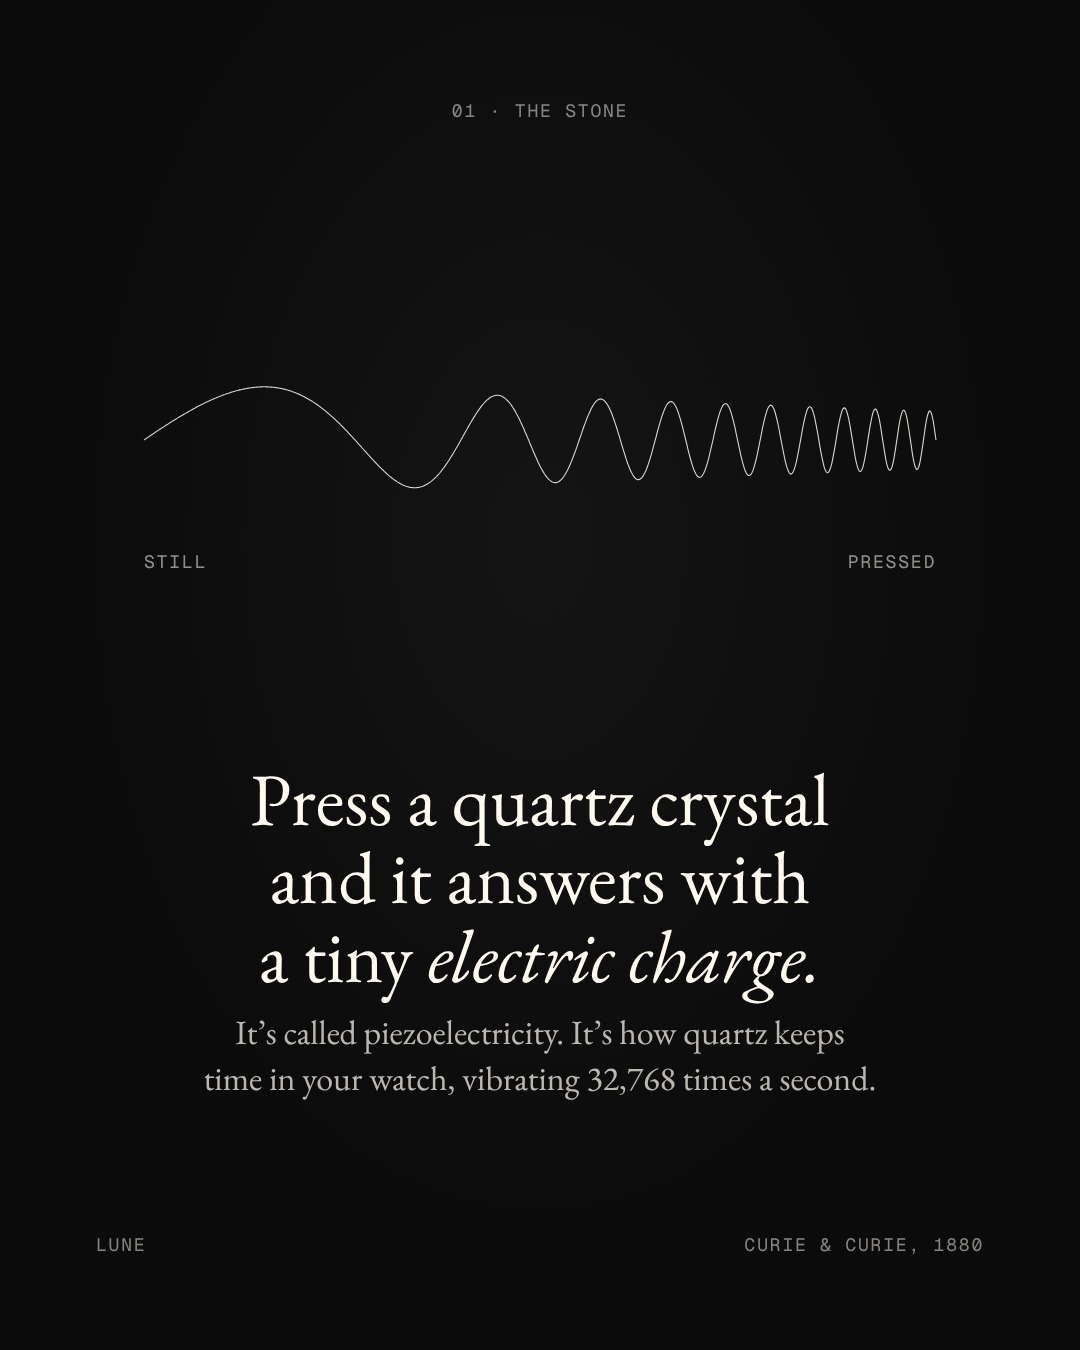
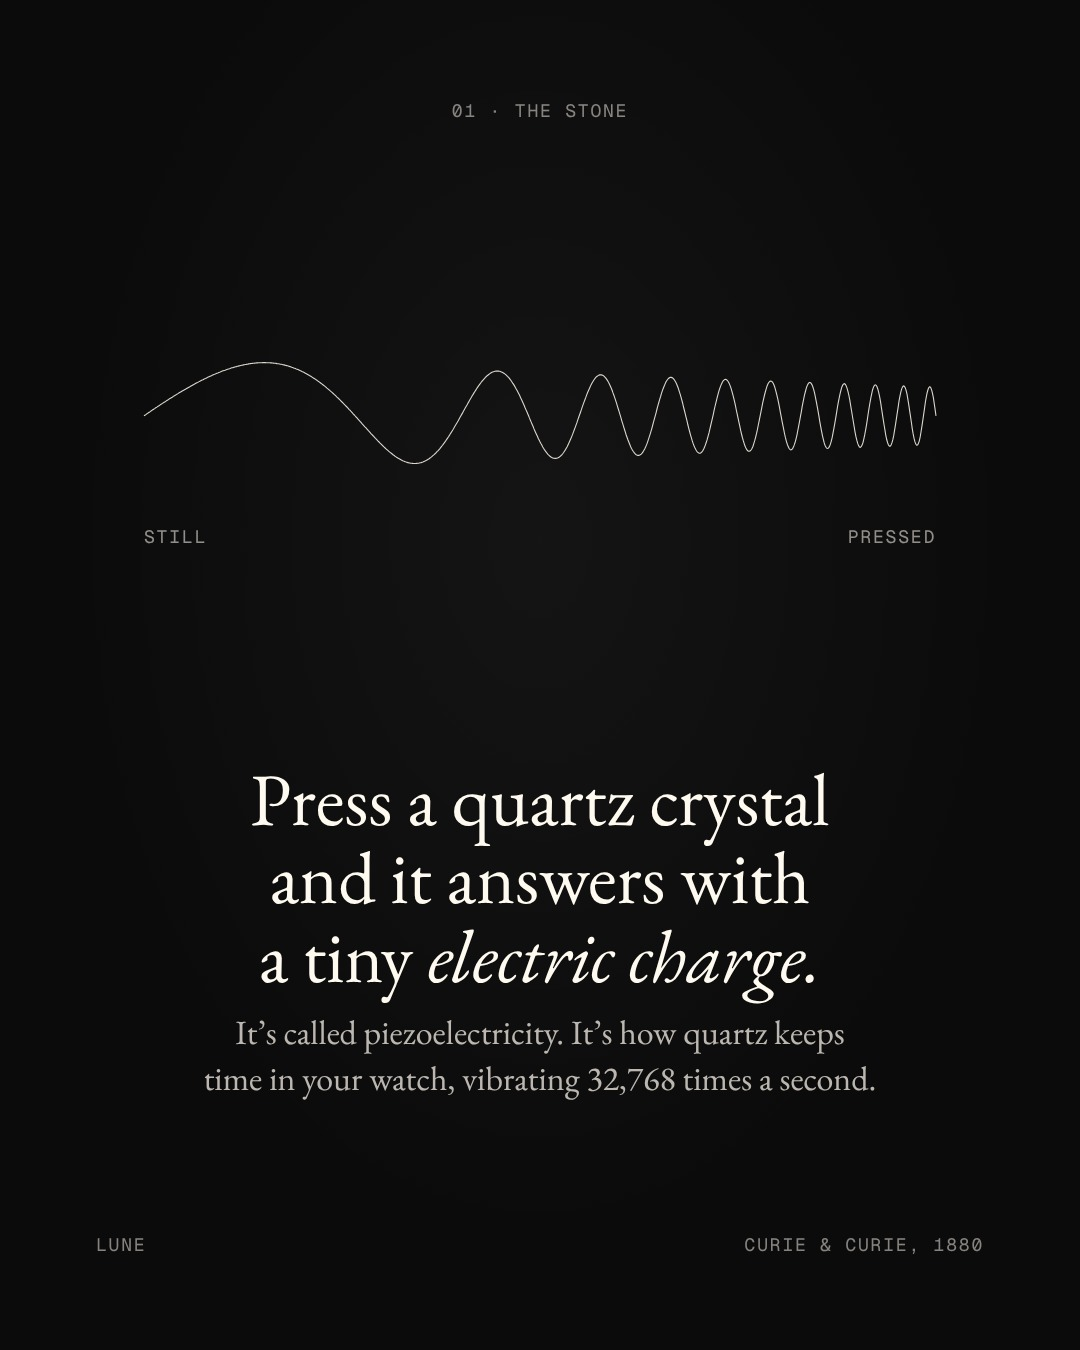
Crystals carousel: distinct end page, optically centred blocks in every cell
Claude-Session: https://claude.ai/code/session_01RcPwiV74pTBPtN1QyzzEVg

diff --git a/2026-11/w45/energia/carrossel.html b/2026-11/w45/energia/carrossel.html
@@ -43,50 +43,61 @@ const S=[
  {label:'03 · Together', title:'Press the stone as you name your intention. It becomes a <i>cue</i> your mind returns to.', sub:'In 94 studies, people who tied a clear intention to a cue were far more likely to follow through.', form:'together', marks:['stone','intention'], end:'Gollwitzer & Sheeran, 2006'},
  {label:'04 · Five for the waning moon', title:'What each one is <i>for.</i>', sub:'Each stone holds a different intention. Notice which name stays with you.', grid:[['grounding','Smoky quartz','for grounding'],['ties','Obsidian','for old ties'],['calm','Amethyst','for a calm mind'],['clean','Selenite','for a clean slate'],['bounds','Black tourmaline','for boundaries']], end:'Share with a friend'},
  {label:'05 · How to hold it', title:'Hold it. Name what you release. <i>Breathe out.</i>', sub:'Then let it rest on your altar until the new moon on 9 November.', form:'steps', marks3:['hold','name','breathe out'], end:'Share with a friend'},
- {label:'06 · Choose one', title:'Which one is <i>calling you?</i>', sub:'Trust the first stone your eye went to. Save this for your altar.', form:'orbit', end:'More moon rituals · lunerituals.app'},
+ {final:1, title:'Which one is <i>calling you?</i>', sub:'Trust the first stone your eye went to. Save this for your altar.'},
 ];
-const P=S[PG-1]; let svg='', html='';
-const div=(st,cls,txt)=>html+=`<div class="a ${cls}" style="${st}">${txt}</div>`;
-function marks(x0,x1,y){ if(P.form==='together'){return} if(P.marks){svg+=T(x0,y,P.marks[0].toUpperCase(),{a:'start',s:18})+T(x1,y,P.marks[1].toUpperCase(),{a:'end',s:18})} }
-function grid(cx,cy,w,h){ // 3 + 2 layout, labels below each form with clear gap
- const g=P.grid, r=Math.min(w/3,h/2)*0.27, rows=[[0,1,2],[3,4]];
- rows.forEach((row,ri)=>{const y=cy-h/4+ri*h/2-20; row.forEach((k,ci)=>{const n=row.length;const x=cx+(ci-(n-1)/2)*(w/3);
-   svg+=F[g[k][0]](x,y,r); svg+=T(x,y+r+62,g[k][1],{f:'EB',s:40,op:1})+T(x,y+r+100,g[k][2],{f:'EB',s:28,i:1,op:.62});})});
+const P=S[PG-1]; let svg='', html='', art_='', CEN=null;
+const div=(st,cls,txt,id='')=>html+=`<div ${id?`id="${id}"`:''} class="a ${cls}" style="${st}">${txt}</div>`;
+function marks(x0,x1,y){ if(P.form==='together'){return} if(P.marks){art_+=T(x0,y,P.marks[0].toUpperCase(),{a:'start',s:18})+T(x1,y,P.marks[1].toUpperCase(),{a:'end',s:18})} }
+function grid(cx,cy,w,h,rr){ // 3 + 2 layout; whole block is centred later by measuring it
+ const g=P.grid, r=rr||Math.min(w/3,h/2)*0.27, rows=[[0,1,2],[3,4]];
+ rows.forEach((row,ri)=>{const y=cy+ri*(2*r+172); row.forEach((k,ci)=>{const n=row.length;const x=cx+(ci-(n-1)/2)*(w/3);
+   art_+=F[g[k][0]](x,y,r); art_+=T(x,y+r+60,g[k][1],{f:'EB',s:38,op:1})+T(x,y+r+100,g[k][2],{f:'EB',s:28,i:1,op:.62});})});
 }
-function steps(cx,y,r){ svg+=F.steps(cx,y,r); P.marks3.forEach((m,i)=>svg+=T(cx+(i-1)*r*2,y+r*0.9*0.5+52,`0${i+1} · ${m.toUpperCase()}`,{s:18}))}
-function art(x,y,r,box){ if(P.grid) return grid(box.cx,box.cy,box.w,box.h); if(P.form==='steps') return steps(x,y,r);
-  svg+=F[P.form](x,y,r); if(P.form==='wave') marks(x-r*2.2,x+r*2.2,y+r*0.32+70); if(P.form==='together') svg+=T(x-r*0.55,y+r*0.88+56,'STONE',{s:18})+T(x+r*0.55,y+r*0.88+56,'INTENTION',{s:18}); }
+function steps(cx,y,r){ art_+=F.steps(cx,y,r); P.marks3.forEach((m,i)=>art_+=T(cx+(i-1)*r*2,y+r*0.9*0.5+52,`0${i+1} · ${m.toUpperCase()}`,{s:18}))}
+function art(x,y,r,box){ if(P.grid) return grid(box.cx,box.cy,box.w,box.h,box.r); if(P.form==='steps') return steps(x,y,r);
+  art_+=F[P.form](x,y,r); if(P.form==='wave') marks(x-r*2.2,x+r*2.2,y+r*0.32+70); if(P.form==='together') art_+=T(x-r*0.55,y+r*0.88+56,'STONE',{s:18})+T(x+r*0.55,y+r*0.88+56,'INTENTION',{s:18}); }
+// ---------- final page: a different room, so it reads as the end ----------
+if(P.final){ document.getElementById('p').style.background='#3D374E';
+ div(`top:0;bottom:0;left:120px;right:120px;display:flex;flex-direction:column;justify-content:center;align-items:center;text-align:center;gap:40px`,'',
+  `<div class="eb" style="font-size:104px;line-height:1.04">${P.title}</div><div class="eb" style="font-size:40px;line-height:1.35;opacity:.8">${P.sub}</div>`);
+ div(`bottom:96px;left:0;right:0;text-align:center`,'gm','<span style="font-size:22px;letter-spacing:.4em">LUNE</span><br><span style="opacity:.6">lunerituals.app</span>');
+}
 // ---------- three layout logics ----------
-if(DIR==='A'){ // EMBLEM: everything centred; form above, words below
+if(DIR==='A'&&!P.final){ // EMBLEM: everything centred; form above, words below
  div(`top:${M}px;left:0;right:0;text-align:center`,'gm d',P.label);
  const big=P.cover?112:74, ty=P.cover?800:(P.grid?190:760);
- if(P.grid){div(`top:${ty}px;left:0;right:0;text-align:center;font-size:${big}px;line-height:1.05`,'eb',P.title); art(0,0,0,{cx:540,cy:760,w:900,h:760});}
- else { art(540,P.cover?480:440,P.form==='wave'?180:(P.form==='steps'?120:150));
+ if(P.grid){div(`top:${ty}px;left:0;right:0;text-align:center;font-size:${big}px;line-height:1.05`,'eb',P.title); art(0,0,0,{cx:540,cy:760,w:900,h:760}); CEN=[540,(300+1200)/2];}
+ else { CEN=[540,(150+ty)/2]; art(540,P.cover?480:440,P.form==='wave'?180:(P.form==='steps'?120:150));
   div(`top:${ty}px;left:120px;right:120px;text-align:center;font-size:${big}px;line-height:1.06`,'eb',P.title);
   if(P.sub) div(`top:${P.cover?1052:ty+ (P.title.length>60?250:180)}px;left:150px;right:150px;text-align:center;font-size:${P.cover?40:34}px;line-height:1.35;opacity:.72`,'eb',P.cover?'<i>'+P.sub+'</i>':P.sub);}
  div(`top:1230px;left:${M}px`,'gm d','Lune'); div(`top:1230px;right:${M}px`,'gm d',P.cover?P.note+' →':P.end);
 }
-if(DIR==='B'){ // GRID: thin frame; title cell + note cell; art lives in the big cell
+if(DIR==='B'&&!P.final){ // GRID: thin frame; title cell + note cell; art lives in the big cell
  const x0=M,x1=W-M,y0=120,y1=1180,ym=P.cover?470:500,xm=W/2+16;
  svg+=`<rect x="${x0}" y="${y0}" width="${x1-x0}" height="${y1-y0}" fill="none" stroke="${L}" stroke-width="1" opacity=".26"/><line x1="${x0}" y1="${ym}" x2="${x1}" y2="${ym}" stroke="${L}" stroke-width="1" opacity=".26"/><line x1="${xm}" y1="${y0}" x2="${xm}" y2="${ym}" stroke="${L}" stroke-width="1" opacity=".26"/>`;
- div(`top:${y0+40}px;left:${x0+40}px`,'gm d',P.label);
+ div(`top:${y0+40}px;left:${x0+40}px`,'gm d',P.label,'bl');
  const big=P.cover?86:(P.title.length>60?48:56);
- div(`top:${y0+92}px;left:${x0+40}px;width:${xm-x0-80}px;font-size:${big}px;line-height:1.08`,'eb',P.title);
+ div(`top:${y0+92}px;left:${x0+40}px;width:${xm-x0-80}px;font-size:${big}px;line-height:1.08`,'eb',P.title,'bt'); window.CELL={y0,ym};
  const right=P.cover?'Even a stone. 5 crystals to hold while you let go this waning moon.':(P.sub||'');
- div(`top:${y0+44}px;left:${xm+40}px;width:${x1-xm-80}px;font-size:${P.sub&&!P.cover?30:30}px;line-height:1.35;opacity:.8`,'eb',right);
- if(P.grid) art(0,0,0,{cx:540,cy:(ym+y1)/2-14,w:860,h:600}); else art(540,(ym+y1)/2-(P.form==='wave'?20:0),P.form==='wave'?175:(P.form==='steps'?120:150));
+ div(`top:${y0+44}px;left:${xm+40}px;width:${x1-xm-80}px;font-size:${P.sub&&!P.cover?30:30}px;line-height:1.35;opacity:.8`,'eb',right,'bn');
+ CEN=[540,(ym+y1)/2]; if(P.grid) art(0,0,0,{cx:540,cy:(ym+y1)/2-6,w:840,h:600,r:63}); else art(540,(ym+y1)/2,P.form==='wave'?175:(P.form==='steps'?120:150));
  div(`top:1220px;left:${M}px`,'gm d','Lune'); div(`top:1220px;right:${M}px`,'gm d',P.cover?'Swipe →':P.end);
 }
-if(DIR==='C'){ // EDITORIAL: big left title on top, small art low right, quiet notes low left
+if(DIR==='C'&&!P.final){ // EDITORIAL: big left title on top, small art low right, quiet notes low left
  div(`top:${M}px;left:${M}px`,'gm d',P.label);
  const big=P.cover?124:(P.title.length>60?70:84);
  div(`top:${M+64}px;left:${M}px;width:${P.cover?880:860}px;font-size:${big}px;line-height:1.04`,'eb',P.title);
  if(P.sub) div(`top:${P.cover?450:(P.title.length>60?470:390)}px;left:${M}px;width:${P.cover?600:640}px;font-size:${P.cover?40:34}px;line-height:1.35;opacity:.72`,'eb',P.sub);
- if(P.grid) art(0,0,0,{cx:540,cy:880,w:900,h:620});
+ if(P.grid){ art(0,0,0,{cx:540,cy:880,w:900,h:620}); CEN=[540,(500+1200)/2];}
  else if(P.form==='wave') art(540,880,175); else if(P.form==='steps') art(540,900,120); else art(760,900,P.cover?170:150);
  if(P.cover) div(`top:1186px;left:${M}px`,'gm d','5 crystals<br>for letting go');
  else div(`top:1230px;left:${M}px`,'gm d',P.end);
  div(`top:1230px;right:${M}px`,'gm d',P.cover?'Swipe →':'Lune');
 }
-document.getElementById('s').innerHTML=svg; document.getElementById('p').insertAdjacentHTML('beforeend',html);
+document.getElementById('s').innerHTML=svg+`<g id="art">${art_}</g>`;
+if(CEN){const g=document.getElementById('art');const b=g.getBBox();if(b.width){g.setAttribute('transform',`translate(${(CEN[0]-(b.x+b.width/2)).toFixed(1)} ${(CEN[1]-(b.y+b.height/2)).toFixed(1)})`)}} document.getElementById('p').insertAdjacentHTML('beforeend',html);
+if(window.CELL){const l=document.getElementById('bl'),t=document.getElementById('bt'),n=document.getElementById('bn');
+ const gap=28, lh=l.offsetHeight, th=t.offsetHeight, blk=lh+gap+th, top=(CELL.y0+CELL.ym)/2-blk/2+(+(Q.get('dy')||0));
+ l.style.top=top+'px'; t.style.top=(top+lh+gap)+'px'; if(n){n.style.top=(top+lh+gap+ (n.offsetHeight<th? 0:0))+'px'; const nb=top+lh+gap+n.offsetHeight; if(n.offsetHeight>th){}}}
+
 </script></body></html>

diff --git a/2026-11/w45/energia/fix.js b/2026-11/w45/energia/fix.js
@@ -1,0 +1,8 @@
+const {chromium}=require('playwright');const {execSync}=require('child_process');(async()=>{const b=await chromium.launch();const p=await b.newPage({viewport:{width:1080,height:1350}});
+for(let i=1;i<=6;i++){let dy=0;for(let it=0;it<3;it++){await p.goto('file://'+process.cwd()+`/car.html?d=B&p=${i}&dy=${dy}`);await p.waitForTimeout(250);await p.screenshot({path:`cB${i}.png`});
+ const out=execSync(`python3 -c "from PIL import Image
+im=Image.open('cB${i}.png').convert('L');ym=${i==1?470:500}
+ys=[y for y in range(125,ym-4) if max(im.getpixel((x,y)) for x in range(110,540,2))>90]
+print(ys[0]-120,ym-ys[-1])"`).toString().trim().split(' ').map(Number);
+ const corr=(out[1]-out[0])/2; console.log(i,it,dy,out); if(Math.abs(corr)<2)break; dy+=corr;}}
+await b.close()})();
